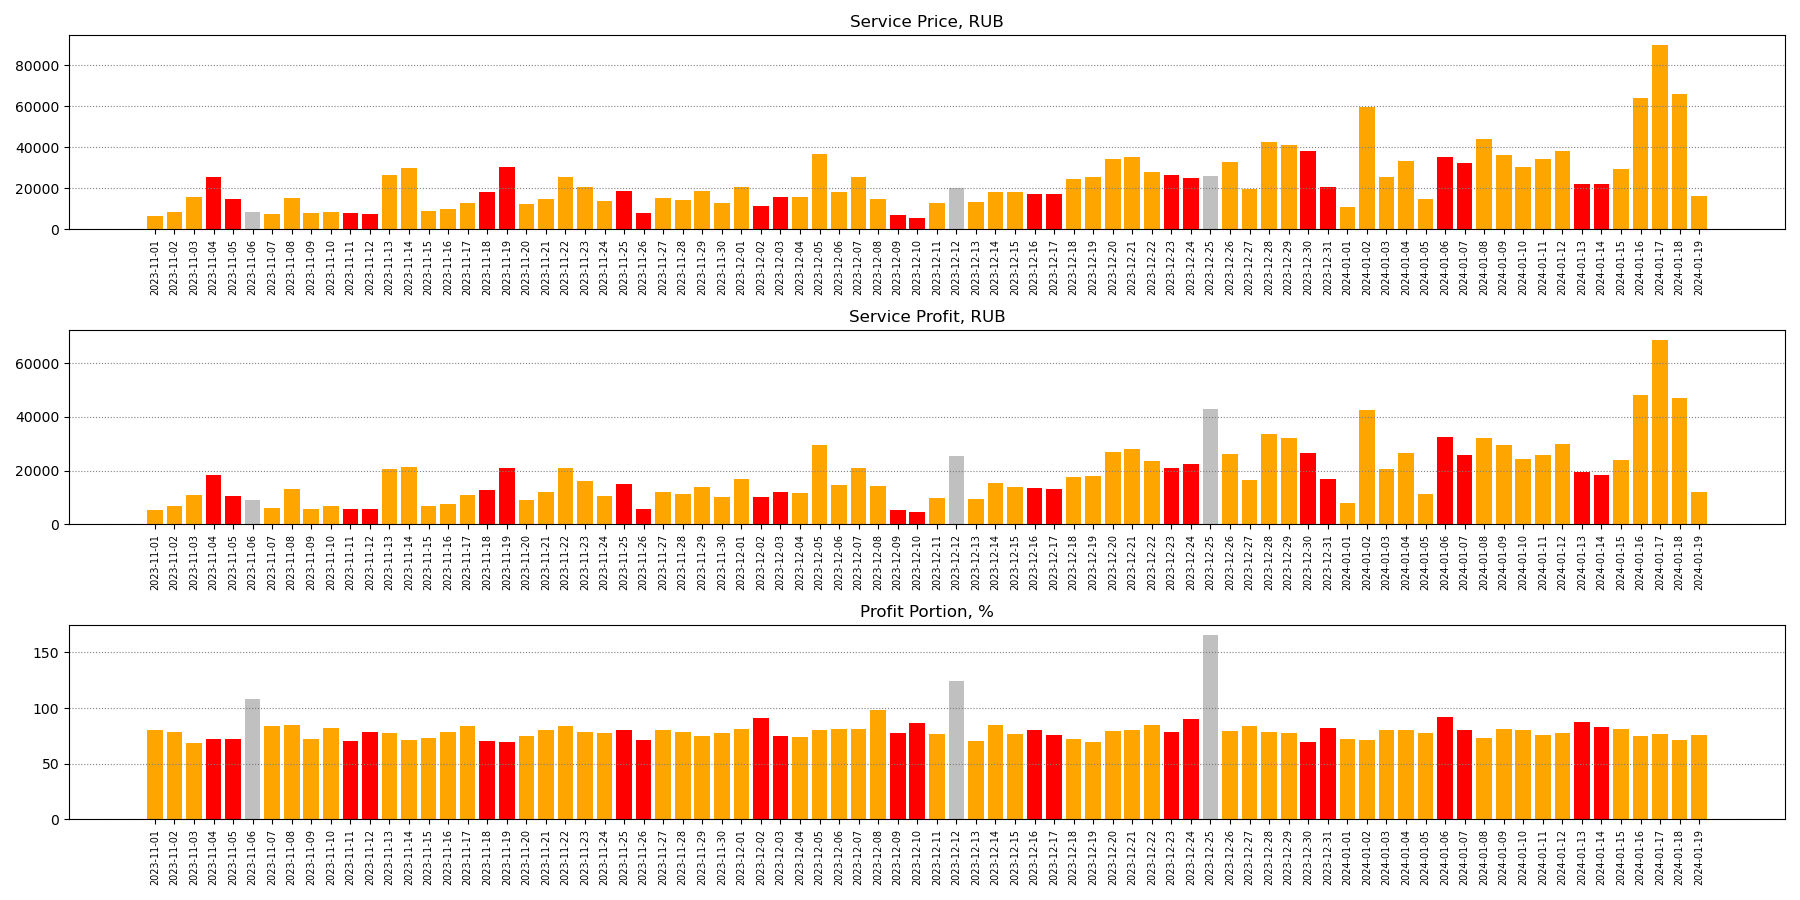
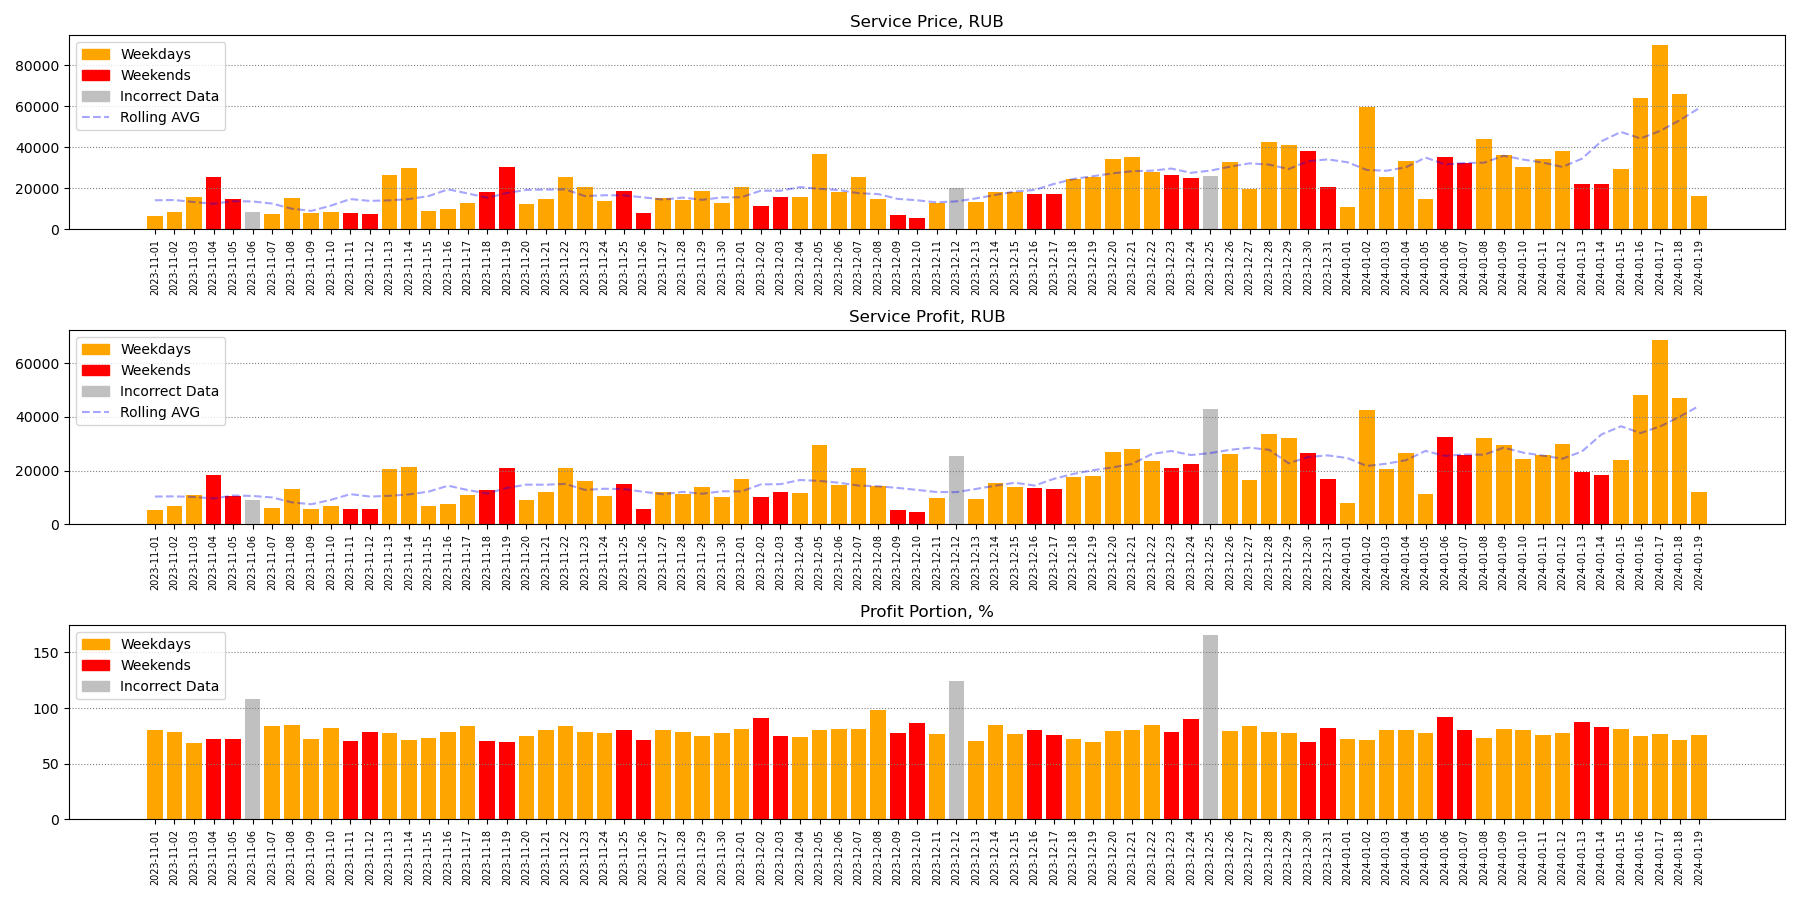
task2 - pos. 1-3

Changed region(s): [[0.0311, 0.0311, 0.1244, 0.1556], [0.0311, 0.3733, 0.1244, 0.4667], [0.0311, 0.6844, 0.1244, 0.7778]]

diff --git a/08 - Aviasales Booking Продуктовый аналитик/08_task2.py b/08 - Aviasales Booking Продуктовый аналитик/08_task2.py
@@ -1,6 +1,7 @@
 import pandas as pd
 import matplotlib.pyplot as plt
 from datetime import datetime
+from matplotlib.lines import Line2D
 
 #pd.set_option('display.max_columns', None)
 
@@ -85,16 +86,36 @@ part_3['weekend'] = part_3['order_date'].dt.dayofweek > 4
 part_3['color'] = part_3\
         .apply(lambda x: get_color(x['profit_portion'], x['weekend']), axis=1)
 part_3.drop('weekend', axis=1, inplace=True)
+part_3['price_roll'] = part_3['service_price']\
+        .rolling(7, min_periods=1, center=True)\
+        .mean().round(2)
+part_3['profit_roll'] = part_3['service_profit']\
+        .rolling(7, min_periods=1, center=True)\
+        .mean().round(2)
 print(part_3)        
-
 fig, ax = plt.subplots(3, 1, figsize=(18, 9))
 units = ['RUB', 'RUB', '%']
-for i, v in enumerate(list(part_3.columns)[1:-1]):
+for i, v in enumerate(list(part_3.columns)[1:4]):
     ax[i].bar(part_3['order_date'], part_3[v], color=part_3['color'])
     ax[i].set_xticks(part_3['order_date'])
     ax[i].tick_params(axis='x', labelsize=7, labelrotation=90)
     ax[i].grid(axis='y', ls=':', color='grey')
     ax[i].set(title=f"{(' '.join(v.split('_'))).title()}, {units[i]}")
+#Rolling averages:
+ax[0].plot(part_3['order_date'], part_3['price_roll'], color='blue', ls='dashed',
+           label='Rolling Average (7 days)', alpha=0.35)
+ax[1].plot(part_3['order_date'], part_3['profit_roll'], color='blue', ls='dashed',
+           label='Rolling Average (7 days)', alpha=0.35)
+#Legend (manually):
+colors = {'Weekdays': 'orange', 'Weekends': 'red',
+          'Incorrect Data': 'silver', 'Rolling AVG': 'blue'}
+labels = list(colors.keys())
+handles = [plt.Rectangle((0,0),1,1, color=colors[label]) for label in labels[:-1]]
+line = Line2D([0], [0], label=labels[3], color=colors['Rolling AVG'], ls='dashed', alpha=0.35)
+handles.extend([line])
+ax[0].legend(handles, labels)
+ax[1].legend(handles, labels)
+ax[2].legend(handles[:-1], labels, loc='upper left')
 plt.tight_layout()
 plt.savefig('./service_dynamics.png')
 plt.show()
